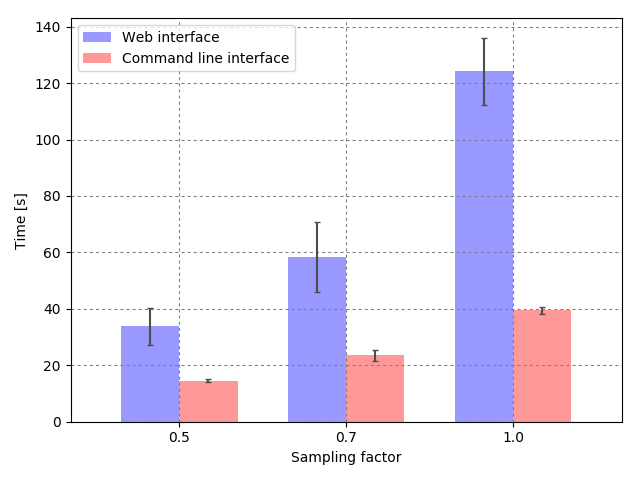
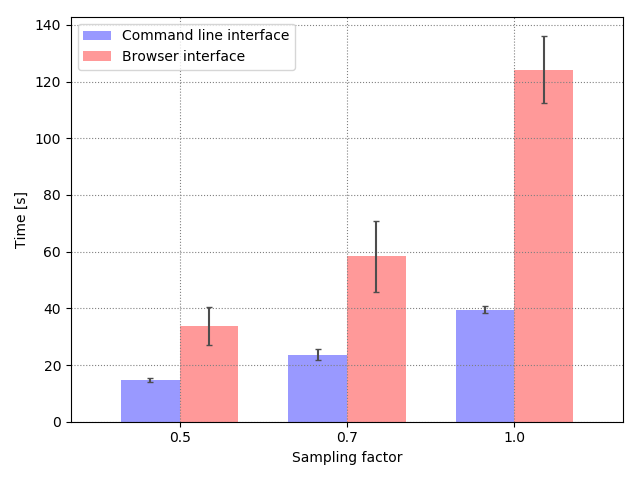
Change the sequence of the bars.

diff --git a/scripts/plot_bars_time_vs_sampling.py b/scripts/plot_bars_time_vs_sampling.py
@@ -3,8 +3,8 @@ import numpy as np
 from plot_lib import plot_bars
 
 if __name__ == '__main__':
-    quantities = ['web', 'command_line']
-    quantity_labels = ['Web interface', 'Command line interface']
+    quantities = ['command_line', 'web']
+    quantity_labels = ['Command line interface', 'Browser interface']
     xlabel = 'Sampling factor'
     ylabel = 'Time [s]'
     title = 'Server Comparison by Time of Calculation and\nTotal Wait Time (NSLS-II FMX beamline, sampling factor = 0.7)'
